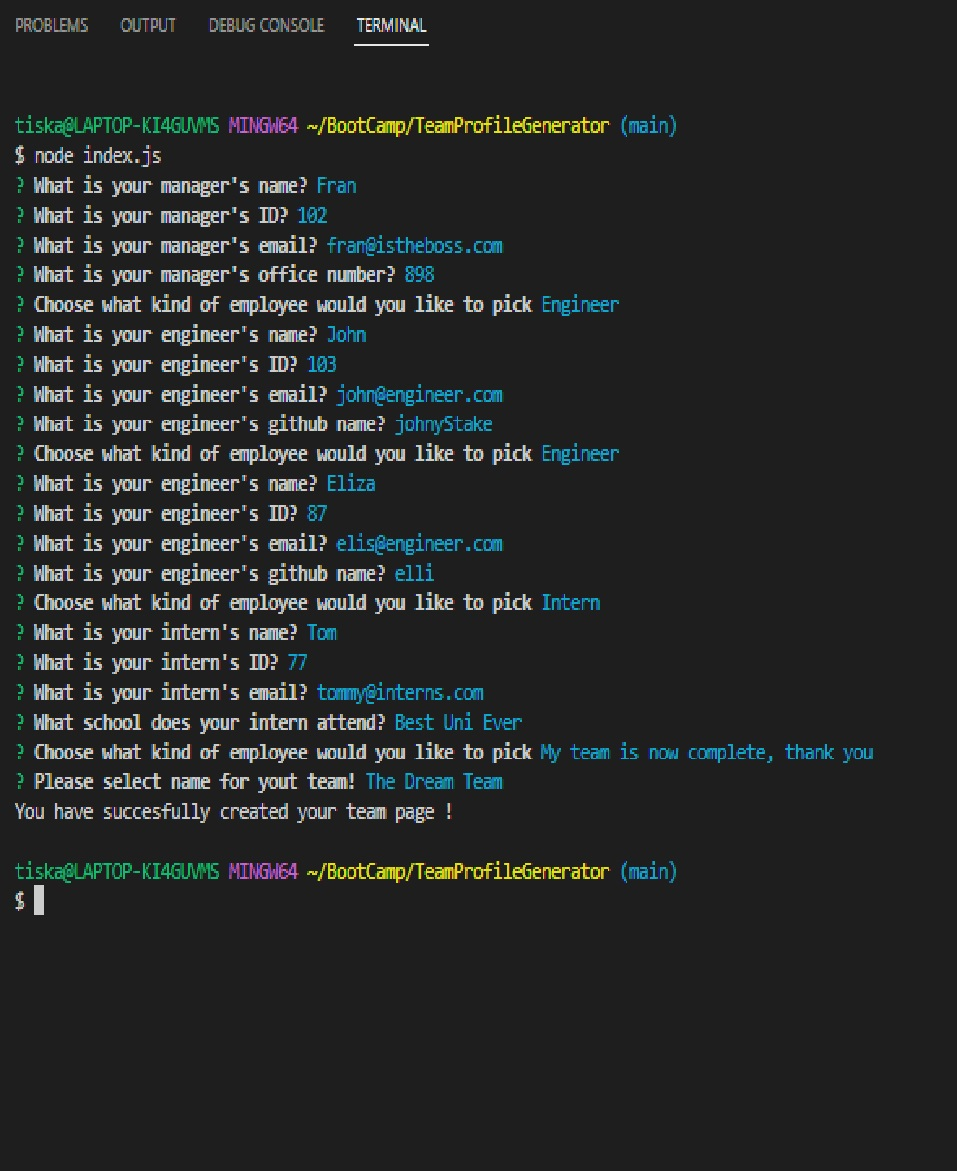
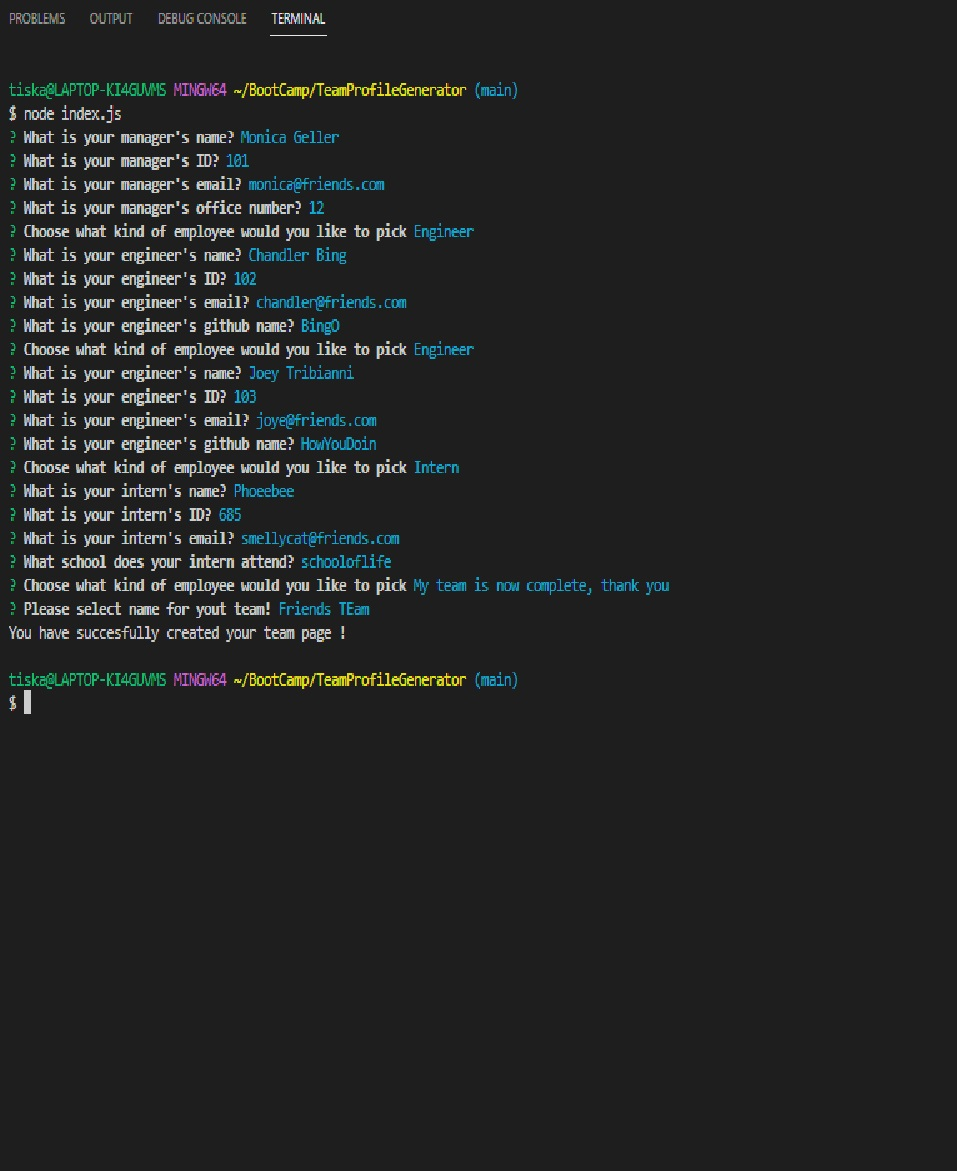
fixing a little typo mistake,managers office number wasnt showing but all fixed now..also updated readme pic with correct screenshot"

diff --git a/output/team.html b/output/team.html
@@ -20,7 +20,7 @@
     <header class="container-fluid">
         <section class="row">
             <article class="col-12 jumbotron mb-3 team-heading">
-                <h1 class="text-center">The Dream Team</h1>
+                <h1 class="text-center">Friends TEam</h1>
             </article>
         </section>
     </header>
@@ -29,14 +29,14 @@
         
     <div class="card employee-card m-3 col-10 col-md-5 col-lg-5">
     <div class="card-header">
-        <h2 class="card-title">Fran</h2>
+        <h2 class="card-title">Monica Geller</h2>
         <h3 class="card-title"><i class="fas fa-mug-hot mr-2"></i>Manager</h3>
     </div>
     <div class="card-body">
         <ul class="list-group">
-            <li class="list-group-item">ID: 102</li>
-            <li class="list-group-item">Email: <a href="mailto:898">898</a></li>
-            <li class="list-group-item">Office number: undefined</li>
+            <li class="list-group-item">ID: 101</li>
+            <li class="list-group-item">Email: <a href="mailto:monica@friends.com">Mail to manager</a></li>
+            <li class="list-group-item">Office number: 12</li>
         </ul>
     </div>
     </div>
@@ -48,42 +48,42 @@
                 
         <div class="card employee-card m-1 col-10 col-md-4 col-lg-3">
     <div class="card-header">
-        <h2 class="card-title">John</h2>
+        <h2 class="card-title">Chandler Bing</h2>
+        <h3 class="card-title"><i class="fas fa-glasses mr-2"></i>Engineer</h3>
+    </div>
+    <div class="card-body">
+        <ul class="list-group">
+            <li class="list-group-item">ID: 102</li>
+            <li class="list-group-item">Email: <a href='mailto:chandler@friends.com'>chandler@friends.com</a></li>
+            <li class="list-group-item">GitHub: <a href="https://github.com/BingO" target="_blank" rel="noopener noreferrer">BingO</a></li>
+        </ul>
+    </div>
+</div>
+        
+        <div class="card employee-card m-1 col-10 col-md-4 col-lg-3">
+    <div class="card-header">
+        <h2 class="card-title">Joey Tribianni</h2>
         <h3 class="card-title"><i class="fas fa-glasses mr-2"></i>Engineer</h3>
     </div>
     <div class="card-body">
         <ul class="list-group">
             <li class="list-group-item">ID: 103</li>
-            <li class="list-group-item">Email: <a href="mailto:john@engineer.com">john@engineer.com</a></li>
-            <li class="list-group-item">GitHub: <a href="https://github.com/johnyStake" target="_blank" rel="noopener noreferrer">johnyStake</a></li>
+            <li class="list-group-item">Email: <a href='mailto:joye@friends.com'>joye@friends.com</a></li>
+            <li class="list-group-item">GitHub: <a href="https://github.com/HowYouDoin" target="_blank" rel="noopener noreferrer">HowYouDoin</a></li>
         </ul>
     </div>
 </div>
         
         <div class="card employee-card m-1 col-10 col-md-4 col-lg-3">
     <div class="card-header">
-        <h2 class="card-title">Eliza</h2>
-        <h3 class="card-title"><i class="fas fa-glasses mr-2"></i>Engineer</h3>
-    </div>
-    <div class="card-body">
-        <ul class="list-group">
-            <li class="list-group-item">ID: 87</li>
-            <li class="list-group-item">Email: <a href="mailto:elis@engineer.com">elis@engineer.com</a></li>
-            <li class="list-group-item">GitHub: <a href="https://github.com/elli" target="_blank" rel="noopener noreferrer">elli</a></li>
-        </ul>
-    </div>
-</div>
-        
-        <div class="card employee-card m-1 col-10 col-md-4 col-lg-3">
-    <div class="card-header">
-        <h2 class="card-title">Tom</h2>
+        <h2 class="card-title">Phoeebee</h2>
         <h3 class="card-title"><i class="fas fa-user-graduate mr-2"></i>Intern</h3>
     </div>
     <div class="card-body">
         <ul class="list-group">
-            <li class="list-group-item">ID: 77</li>
-            <li class="list-group-item">Email: <a href="mailto:tommy@interns.com">tommy@interns.com</a></li>
-            <li class="list-group-item">School: Best Uni Ever</li>
+            <li class="list-group-item">ID: 685</li>
+            <li class="list-group-item">Email: <a href="mailto:smellycat@friends.com">smellycat@friends.com</a></li>
+            <li class="list-group-item">School: schooloflife</li>
         </ul>
     </div>
 </div>

diff --git a/src/page-template.js b/src/page-template.js
@@ -12,7 +12,7 @@ const generateManager = manager => {
     <div class="card-body">
         <ul class="list-group">
             <li class="list-group-item">ID: ${manager.getId()}</li>
-            <li class="list-group-item">Email: <a href="mailto:${manager.getEmail()}">${manager.getEmail()}</a></li>
+            <li class="list-group-item">Email: <a href="mailto:${manager.getEmail()}">Mail to manager</a></li>
             <li class="list-group-item">Office number: ${manager.getOfficeNumber()}</li>
         </ul>
     </div>
@@ -35,7 +35,7 @@ const generateTeam = team => {
     <div class="card-body">
         <ul class="list-group">
             <li class="list-group-item">ID: ${engineer.getId()}</li>
-            <li class="list-group-item">Email: <a href="mailto:${engineer.getEmail()}">${engineer.getEmail()}</a></li>
+            <li class="list-group-item">Email: <a href='mailto:${engineer.getEmail()}'>${engineer.getEmail()}</a></li>
             <li class="list-group-item">GitHub: <a href="https://github.com/${engineer.getGithub()}" target="_blank" rel="noopener noreferrer">${engineer.getGithub()}</a></li>
         </ul>
     </div>

diff --git a/index.js b/index.js
@@ -34,7 +34,7 @@ inquirer
         {
             type: 'input',
             message: 'What is your manager\'s office number?',
-            name: 'email',
+            name: 'officeNumber',
         },
     ])
     .then((response) => {

diff --git a/output/style.css b/output/style.css
@@ -26,6 +26,7 @@ header{
 .card{
     padding: 0px;
     border: 3px solid black;
+    width: 30% !important;
 }
 .card-header{
     width: 100%;
